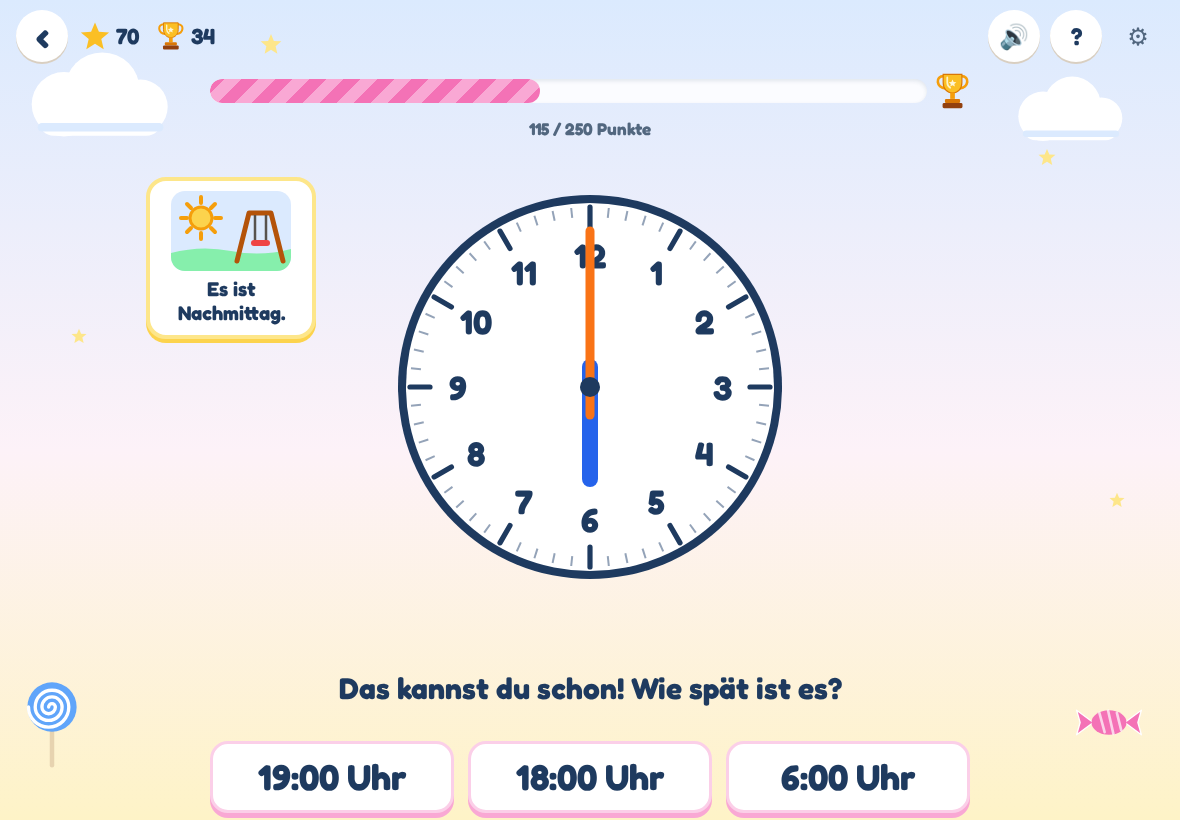
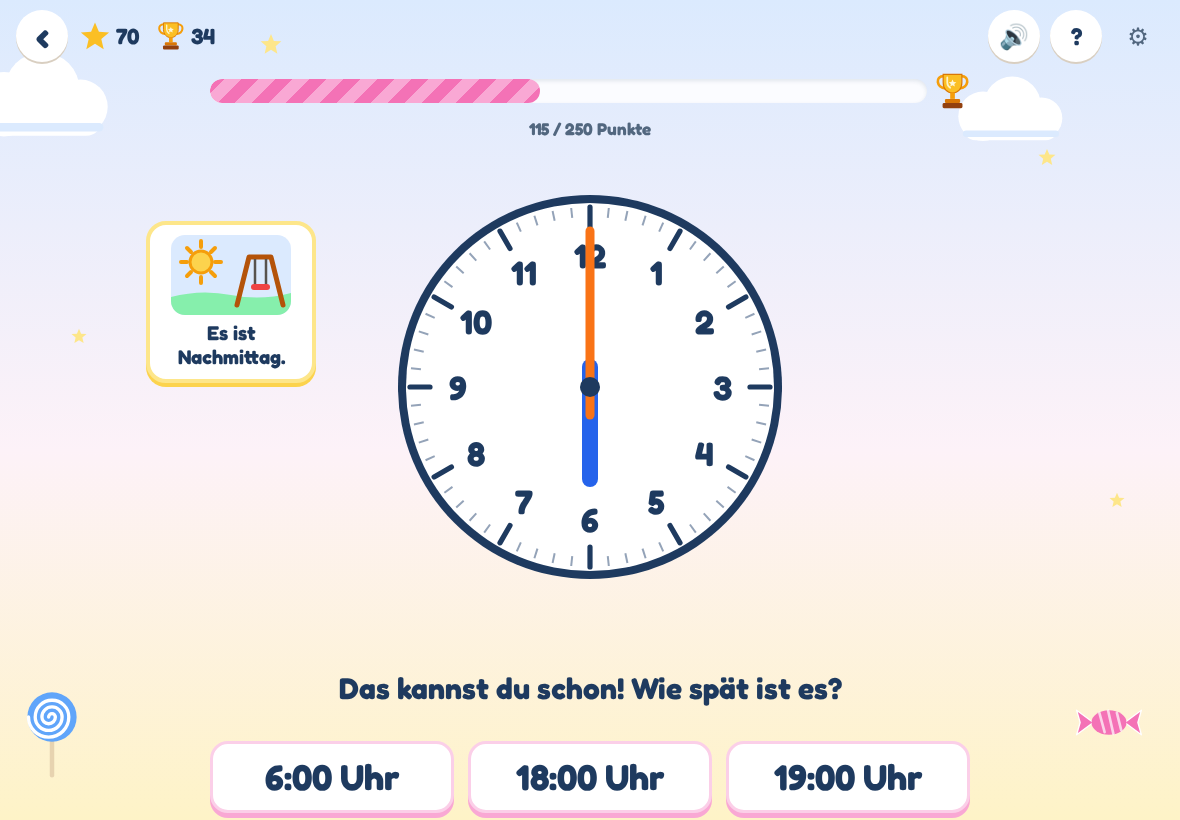
Daytime context in layout flow on portrait tablets, read aloud; README section

diff --git a/src/modules/clock/game.ts b/src/modules/clock/game.ts
@@ -35,10 +35,9 @@ const MARKUP = `
     <span class="round-goal">${trophy()}</span>
     <span class="round-label" data-ref="roundLabel"></span>
   </div>
-  <main class="stage">
-    <div class="clock-wrap" data-ref="clock">
-      <div class="daytime" data-ref="daytime" hidden>${afternoonScene()}<span>Es ist Nachmittag.</span></div>
-    </div>
+  <main class="stage" data-ref="stage">
+    <div class="daytime" data-ref="daytime" hidden>${afternoonScene()}<span>Es ist Nachmittag.</span></div>
+    <div class="clock-wrap" data-ref="clock"></div>
     <p class="message" data-ref="message" aria-live="polite"></p>
     <div class="answers" data-ref="answers"></div>
     <button class="next" type="button" data-ref="next" hidden>Weiter</button>
@@ -90,6 +89,7 @@ export function mountClockGame(root: HTMLElement, ctx: ModuleContext): () => voi
     stars: ref('stars'),
     trophies: ref('trophies'),
     daytime: ref('daytime'),
+    stage: ref('stage'),
     round: ref('round'),
     roundFill: ref('roundFill'),
     roundLabel: ref('roundLabel'),
@@ -170,6 +170,7 @@ export function mountClockGame(root: HTMLElement, ctx: ModuleContext): () => voi
     ui.answers.classList.toggle('text-answers', task.track === 'text');
     // The daytime context stays visible for the whole task.
     ui.daytime.hidden = task.track !== 'daytime';
+    ui.stage.classList.toggle('with-context', task.track === 'daytime');
     buttons = task.options.map((option, i) => {
       const b = document.createElement('button');
       b.type = 'button';
@@ -418,7 +419,8 @@ export function mountClockGame(root: HTMLElement, ctx: ModuleContext): () => voi
   ui.speak.hidden = !canSpeak();
   ui.speak.addEventListener('click', () => {
     if (phase === 'question' && task.kind !== 'example') {
-      const parts = [ui.message.textContent ?? '', ...buttons.map((b) => b.textContent ?? '')];
+      const context = task.track === 'daytime' ? 'Es ist Nachmittag. ' : '';
+      const parts = [context + (ui.message.textContent ?? ''), ...buttons.map((b) => b.textContent ?? '')];
       speak(parts, (i) => buttons.forEach((b, j) => b.classList.toggle('speaking', j === i - 1)));
     } else {
       speak([ui.message.textContent ?? '']);

diff --git a/src/style.css b/src/style.css
@@ -657,27 +657,21 @@ a.area-card:active {
   gap: 10px;
   padding: 6px 16px max(16px, env(safe-area-inset-bottom));
   min-height: 0;
+  --clock-size: min(92vw, calc(100dvh - 320px), 680px);
 }
 
 .clock-wrap {
-  width: min(92vw, calc(100dvh - 320px), 680px);
+  width: var(--clock-size);
   min-width: 220px;
   aspect-ratio: 1;
   flex-shrink: 1;
 }
 
-.clock-wrap {
-  position: relative;
-}
-
 /* Daytime context ("Es ist Nachmittag"): beside the clock in landscape, above it in portrait. */
 .daytime {
-  position: absolute;
   display: flex;
-  flex-direction: column;
   align-items: center;
   gap: 6px;
-  padding: 10px;
   border-radius: 20px;
   background: var(--card);
   border: 4px solid #fde68a;
@@ -690,23 +684,27 @@ a.area-card:active {
 
 .daytime svg {
   display: block;
-  width: 120px;
   height: auto;
 }
 
 @media (orientation: landscape) {
   .daytime {
-    right: calc(100% + 24px);
-    top: 8%;
+    position: absolute;
+    top: 12%;
+    right: calc(50% + var(--clock-size) / 2 + 24px);
     width: 170px;
+    flex-direction: column;
+    padding: 10px;
+  }
+
+  .daytime svg {
+    width: 120px;
   }
 }
 
+/* Portrait: in the layout flow, the clock shrinks a little to make room. */
 @media (orientation: portrait) {
   .daytime {
-    left: 50%;
-    bottom: calc(100% + 6px);
-    transform: translateX(-50%);
     flex-direction: row;
     padding: 4px 16px 4px 4px;
     white-space: nowrap;
@@ -714,6 +712,10 @@ a.area-card:active {
 
   .daytime svg {
     width: 64px;
+  }
+
+  .stage.with-context {
+    --clock-size: min(92vw, calc(100dvh - 400px), 680px);
   }
 }
 

diff --git a/README.md b/README.md
@@ -77,6 +77,20 @@ liest die Antworten vor.
   <img src="docs/screenshots/trophy.png" alt="Pokal am Ende eines Durchgangs" width="360">
 </p>
 
+### Nachmittagszeiten
+
+Eine Zeigeruhr sieht um 3 Uhr morgens genauso aus wie um 3 Uhr nachmittags. Sobald halbe
+Stunden sicher sitzen, steht deshalb bei manchen Aufgaben neben der Uhr **„Es ist
+Nachmittag.“** – mit Sonne und Schaukel. Dann ist die Antwort **15:00 Uhr**, nicht 3:00 Uhr:
+„Nach zwölf Uhr mittags zählen wir weiter: dreizehn, vierzehn, fünfzehn …“ Geübt werden
+zuerst volle und halbe Stunden zwischen 13 und 18 Uhr; die Morgen-Uhrzeit ist dabei immer
+eine der falschen Antworten. Nach einer richtigen Antwort heißt es zum Beispiel: „Halb
+vier am Nachmittag. Das schreiben wir 15:30 Uhr.“ Morgen, Abend und weitere Minuten folgen.
+
+<p align="center">
+  <img src="docs/screenshots/clock-afternoon.png" alt="Uhr mit dem Hinweis 'Es ist Nachmittag' und den Antworten 19:00 Uhr, 18:00 Uhr und 6:00 Uhr" width="720">
+</p>
+
 ### Durchgänge, Pokale, Sterne und Abzeichen
 
 - Ein **Durchgang** endet, wenn der Punkte-Balken voll ist. Das Ziel passt sich dem
